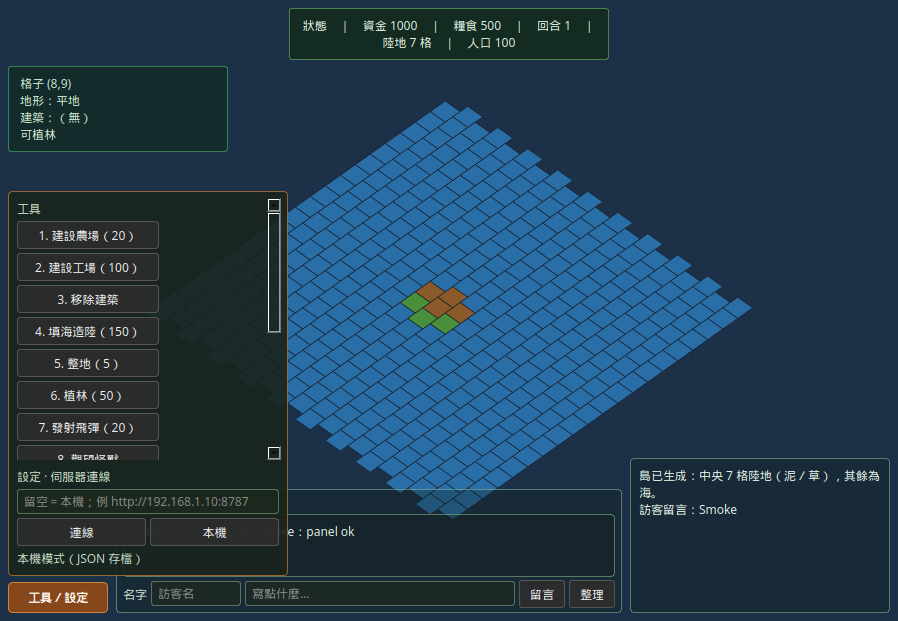
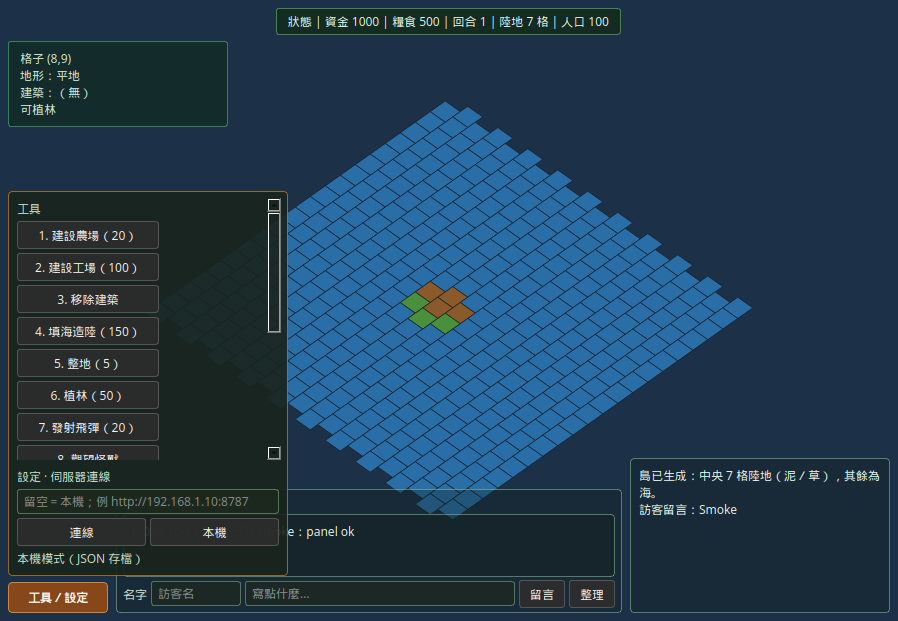
Keep 箱庭島 status HUD on a single line
Disable word-wrap on the top status overlay and use compact separators
so funds/food/turn/land/pop stay one horizontal strip. Smoke asserts
single-line height; regenerate overlay proof PNGs.

Changed region(s): [[0.2806, 0.0, 0.7171, 0.1224], [0.0, 0.0612, 0.2806, 0.2448]]

diff --git a/hakoniwa/dialog.py b/hakoniwa/dialog.py
@@ -66,7 +66,8 @@ QLabel#hakoniwaHudStatus {{
     color: #e4f5e4;
     border: 1px solid rgba(90, 150, 90, 200);
     border-radius: 3px;
-    padding: 4px 10px;
+    padding: 3px 10px;
+    /* Single-line status strip — do not wrap stats. */
 }}
 QLabel#hakoniwaHudTile {{
     background-color: rgba(16, 40, 28, 170);
@@ -144,8 +145,12 @@ class HakoniwaMapHud(QWidget):
 
         self.stats = QLabel(self)
         self.stats.setObjectName("hakoniwaHudStatus")
-        self.stats.setWordWrap(True)
-        self.stats.setAlignment(Qt.AlignmentFlag.AlignCenter)
+        # User-locked: status HUD is one horizontal line (no wrap).
+        self.stats.setWordWrap(False)
+        self.stats.setAlignment(
+            Qt.AlignmentFlag.AlignHCenter | Qt.AlignmentFlag.AlignVCenter
+        )
+        self.stats.setTextFormat(Qt.TextFormat.PlainText)
 
         self.sel_label = QLabel("未選取格子", self)
         self.sel_label.setObjectName("hakoniwaHudTile")
@@ -255,10 +260,12 @@ class HakoniwaMapHud(QWidget):
         self.map.lower()
 
         margin = 8
-        # Status — top center
-        self.stats.adjustSize()
-        status_h = max(self.stats.sizeHint().height() + 8, 28)
-        status_w = min(max(self.stats.sizeHint().width() + 24, 320), w - 2 * margin)
+        # Status — top center, single horizontal line (no wrap / multi-line).
+        fm = self.stats.fontMetrics()
+        text = self.stats.text() or ""
+        text_w = fm.horizontalAdvance(text) + 24
+        status_h = max(fm.height() + 10, 26)
+        status_w = min(max(text_w, 200), w - 2 * margin)
         self.stats.setGeometry((w - status_w) // 2, margin, status_w, status_h)
 
         # Tile info — top-left below status
@@ -790,10 +797,11 @@ class HakoniwaIslandDialog(QDialog):
         monster_bit = ""
         if s.monsters:
             m = s.monsters[0]
-            monster_bit = f"　｜　怪獸 {m.label()}({m.i},{m.j})"
+            monster_bit = f" | 怪獸 {m.label()}({m.i},{m.j})"
+        # One line only — compact separators so the strip stays single-row.
         self.stats.setText(
-            f"狀態　｜　資金 {s.funds}　｜　糧食 {s.food}　｜　"
-            f"回合 {s.turn}　｜　陸地 {s.land_count()} 格　｜　"
+            f"狀態 | 資金 {s.funds} | 糧食 {s.food} | "
+            f"回合 {s.turn} | 陸地 {s.land_count()} 格 | "
             f"人口 {s.population}{monster_bit}"
         )
         self.log_view.setPlainText("\n".join(s.log[-30:]))
@@ -1182,9 +1190,9 @@ class TourismIslandDialog(QDialog):
         self.hud.tools_drawer.hide()
         mode = "連線" if remote is not None else "本機示範"
         self.stats.setText(
-            f"[{mode}觀光] {island.name}（{self._island_id}）　"
-            f"資金 {island.funds}　糧食 {island.food}　人口 {island.population}　"
-            f"回合 {island.turn}　陸地 {island.land_count()} 格"
+            f"[{mode}觀光] {island.name}（{self._island_id}） | "
+            f"資金 {island.funds} | 糧食 {island.food} | 人口 {island.population} | "
+            f"回合 {island.turn} | 陸地 {island.land_count()} 格"
         )
         self.hud.log_view.setPlainText("觀光模式：建設與地形指令已鎖定。")
         root.addWidget(self.hud, stretch=1)

diff --git a/hakoniwa/smoke_test.py b/hakoniwa/smoke_test.py
@@ -764,6 +764,16 @@ def test_dialog_import_offscreen():
     assert "陸地" in dlg.stats.text()
     assert "[本機]" not in dlg.stats.text()
     assert "[連線]" not in dlg.stats.text()
+    # Status HUD is a single horizontal line (no wrap / multi-line).
+    assert dlg.stats.wordWrap() is False
+    assert "\n" not in dlg.stats.text()
+    dlg.show()
+    dlg.resize(960, 780)
+    dlg._refresh_ui()
+    app.processEvents()
+    status_h = dlg.stats.height()
+    line_h = dlg.stats.fontMetrics().height()
+    assert status_h <= line_h + 16, (status_h, line_h, dlg.stats.text())
     # Opening tools drawer exposes build toolbar + server settings.
     # Use isHidden() — isVisible() is false while the dialog itself is not shown.
     dlg.hud.tools_btn.setChecked(True)

diff --git a/hakoniwa/README.md b/hakoniwa/README.md
@@ -23,7 +23,7 @@ All numeric / function chrome sits **inside the map viewport** (`HakoniwaMapHud`
 
 | Overlay | Position | Notes |
 |---|---|---|
-| Status (funds / food / turn / land / pop) | Top center | Connection mode is **not** here |
+| Status (funds / food / turn / land / pop) | Top center | **Single line** (no wrap); connection mode is **not** here |
 | Tile info | Top-left | Below status |
 | Action log | Bottom-right | ~70% transparent frame |
 | Guestbook | Bottom center | ~70% transparent frame |
